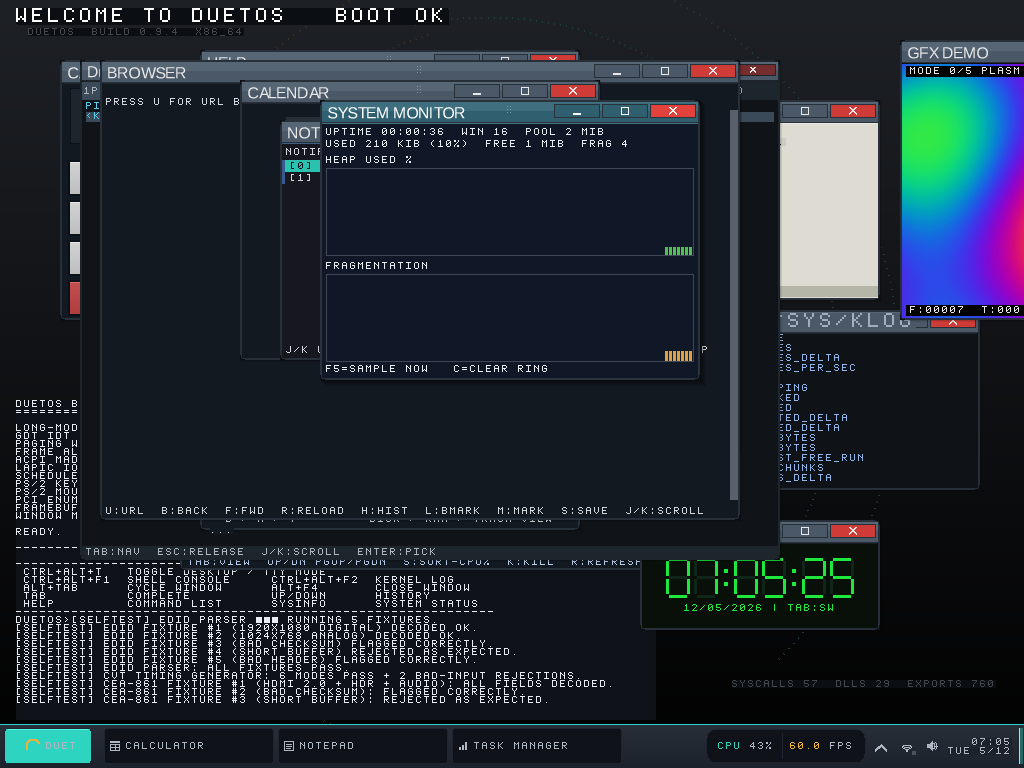
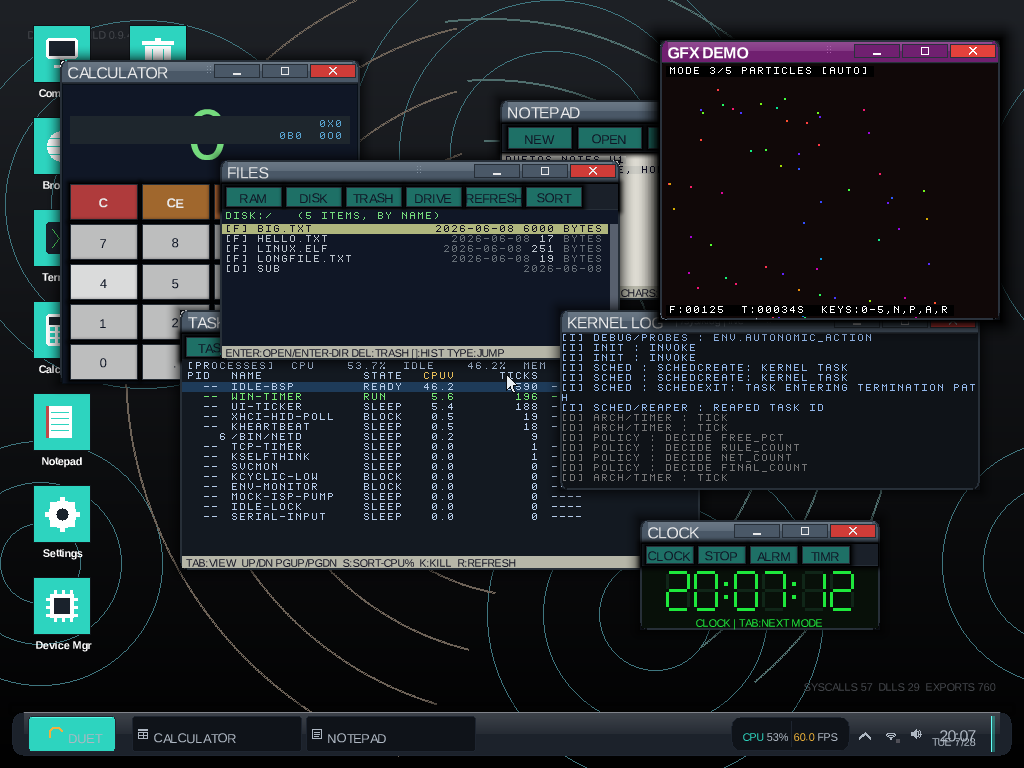
screenshots: regenerate the Duet desktop pair on Aurora chrome
Replaces docs/screenshots/06-desktop-duet.png (the README hero) and
09-duet-pixel-render.png with fresh captures showing the island taskbar,
rounded window bodies and the Aero specular from the three previous
commits. Both verified by eye and by pixel probe: the island measures
x=12..1011 (width 1000, clamped to framebuffer minus one 12 px inset per
side) with a 12 px gap below it -- exactly the taskbar_inset the Duet
theme table carries.

Getting a capture at all needed three fixes.

1. demo-windows=1 boot flag. Every app window registers HIDDEN -- it is
   a launcher, not a running task -- so a plain desktop boot photographs
   an empty desktop and no window chrome whatsoever. That is a
   pre-existing behaviour change the committed screenshots predate; the
   harness has quietly been unable to reproduce them since. The flag
   raises a representative set through WindowRaise, which is already the
   single "make it visible and active" entry point the Start menu's
   role-raise handler uses. GFX Demo is raised LAST on purpose: it only
   renders pixels while it is the active window and paints a static
   "idle card" otherwise, which is what makes 09-duet-pixel-render
   capturable headlessly at all.

2. Island content padding. The rounded corners eat the first and last
   `radius` columns, so anchoring the START button and the time card at
   the bare 4 px edge pad sliced both against the curve and hid the
[…]

diff --git a/kernel/drivers/video/taskbar.cpp b/kernel/drivers/video/taskbar.cpp
@@ -133,6 +133,13 @@ constexpr u32 kEdgePad = 4;
 constexpr u32 kTabW = 170;
 constexpr u32 kTabGap = 4;
 
+// Show-desktop rail: the rightmost cell of the strip. Hoisted out of
+// the paint block because the time card has to anchor LEFT of it —
+// both used to measure back from the same right edge, so the rail
+// painted over the last few pixels of the date row.
+constexpr u32 kRailW = 4;
+constexpr u32 kRailGap = 4;
+
 // Horizontal room the right-hand cluster needs: time card + tray
 // icons + chevron + (Duet only) the CPU/FPS pill + the show-desktop
 // rail + the gaps between them. Sized so tabs never get clipped by
@@ -426,8 +433,12 @@ void TaskbarReanchor()
     // the framebuffer minus an inset on each side, so a desktop with
     // many windows degrades to a near-full-width island rather than
     // running off the screen.
+    // The rounded corners eat into the first and last `radius`
+    // columns, so the content pad has to clear them or the START
+    // button and the time card get sliced by the curve.
+    const u32 pad = kEdgePad + theme.surface_radius;
     const u32 tabs_w = VisibleTabCount() * (kTabW + kTabGap);
-    const u32 content = kEdgePad + kStartW + kStartGap + tabs_w + RightReserve() + kEdgePad;
+    const u32 content = 2 * pad + kStartW + kStartGap + tabs_w + RightReserve();
     const u32 max_w = (info.width > 2 * inset) ? info.width - 2 * inset : info.width;
     const u32 w = (content < max_w) ? content : max_w;
 
@@ -507,6 +518,12 @@ void TaskbarRedraw()
     const u32 bar_w = (g_bar_w != 0) ? g_bar_w : info.width;
     const u32 bar_right = bar_x + bar_w;
     const u32 bar_radius = g_bar_radius;
+    // Left / right content pad. On a full-width strip the chrome sits
+    // 4 px off the framebuffer edge; on an island it must additionally
+    // clear the corner curve. `bar_content_right` is the right-hand
+    // anchor every right-aligned cell measures back from.
+    const u32 bar_pad = kEdgePad + bar_radius;
+    const u32 bar_content_right = (bar_w > 2 * bar_pad) ? bar_right - bar_pad : bar_right;
 
     // Tactility lift: a faint 6-px shadow bleeds upward from the
     // strip's top edge so the taskbar reads as a piece of chrome
@@ -591,7 +608,7 @@ void TaskbarRedraw()
     // window-chrome highlight band.
     constexpr u32 start_w = kStartW;
     constexpr u32 start_radius = 4;
-    const u32 start_x = bar_x + kEdgePad;
+    const u32 start_x = bar_x + bar_pad;
     const u32 start_h = (g_h > 8) ? g_h - 8 : g_h;
     FramebufferFillRoundRect(start_x, g_y + 4, start_w, start_h, start_radius, g_accent);
     FramebufferDrawRoundRect(start_x, g_y + 4, start_w, start_h, start_radius, g_border);
@@ -676,7 +693,8 @@ void TaskbarRedraw()
     //                 gaps (~14) = ~170
     const u32 right_reserve = RightReserve();
     u32 tab_x = start_x + start_w + kStartGap;
-    const u32 tabs_right_limit = (bar_w > right_reserve) ? bar_right - right_reserve : bar_right;
+    const u32 tabs_right_limit =
+        (bar_content_right > bar_x + right_reserve) ? bar_content_right - right_reserve : bar_content_right;
 
     g_tab_count = 0;
     const u32 count = WindowRegistryCount();
@@ -904,7 +922,12 @@ void TaskbarRedraw()
     // inset, anchored to the framebuffer's right edge.
     const u32 block_text_w = (clk_text_w > date_text_w) ? clk_text_w : date_text_w;
     const u32 block_w = block_text_w + 12;
-    const u32 block_x = (bar_w > block_w) ? bar_right - block_w : bar_x;
+    // Anchor left of the show-desktop rail, not of the strip edge:
+    // the rail is painted last and would otherwise overwrite the
+    // right-hand few pixels of the date row.
+    const u32 cluster_right =
+        (bar_content_right > bar_x + kRailW + kRailGap) ? bar_content_right - kRailW - kRailGap : bar_content_right;
+    const u32 block_x = (cluster_right > bar_x + block_w) ? cluster_right - block_w : bar_x;
     // Two-row stack inside the taskbar height — top row above the
     // strip's vertical centre, bottom row below.
     const u32 row_top_y = g_y + (g_h / 2) - 8;
@@ -1296,8 +1319,8 @@ void TaskbarRedraw()
     // the desktop is showing — gives the user a visible
     // "armed" cue that a click would restore the windows.
     {
-        constexpr u32 rail_w = 4;
-        const u32 rail_x = (bar_w > rail_w + 1) ? bar_right - rail_w - 1 : bar_x;
+        constexpr u32 rail_w = kRailW;
+        const u32 rail_x = (bar_content_right > bar_x + rail_w + 1) ? bar_content_right - rail_w - 1 : bar_x;
         const u32 rail_y = g_y + 4;
         const u32 rail_h = (g_h > 8) ? g_h - 8 : g_h;
         const u8 rail_alpha = WindowShowDesktopActive() ? 0xC0 : 0x60;
@@ -1445,7 +1468,7 @@ void TaskbarStartBounds(u32* x_out, u32* y_out, u32* w_out, u32* h_out)
     // an update there must update these constants too. Small
     // static layout, so a centralised constant would be over-
     // engineering at v0 scale.
-    const u32 start_x = g_bar_x + kEdgePad;
+    const u32 start_x = g_bar_x + kEdgePad + g_bar_radius;
     constexpr u32 start_w = kStartW;
     const u32 start_y = g_y + 4;
     const u32 start_h = (g_h > 8) ? g_h - 8 : g_h;

diff --git a/kernel/core/boot_bringup.cpp b/kernel/core/boot_bringup.cpp
@@ -3943,6 +3943,17 @@ void BootBringupDesktop(duetos::uptr multiboot_info)
     // effect on normal boots.
     const bool demo_browser = CmdlineMatches(cmdline, "demo-browser", "1");
 
+    // demo-windows=1 unhides a representative set of app windows at
+    // boot so a headless screenshot can capture live window chrome.
+    // Every app window otherwise registers hidden — it is a launcher,
+    // not a running task — which leaves the screenshot harness unable
+    // to photograph chrome at all without injecting Start-menu clicks.
+    // Windows are looked up by ThemeRole rather than by captured
+    // handle so this stays a single block that cannot drift out of
+    // sync with the registration order above. No effect on normal
+    // boots.
+    const bool demo_windows = CmdlineMatches(cmdline, "demo-windows", "1");
+
     if (want_tty)
     {
         duetos::drivers::video::SetDisplayMode(duetos::drivers::video::DisplayMode::Tty);
@@ -3954,6 +3965,27 @@ void BootBringupDesktop(duetos::uptr multiboot_info)
     {
         duetos::drivers::video::DesktopCompose(theme0.desktop_bg, nullptr);
         duetos::drivers::video::CursorInit(theme0.desktop_bg);
+        if (demo_windows)
+        {
+            // WindowRaise is the single "make it visible and active"
+            // entry point (the Start menu's role-raise handler uses
+            // it too), so raising in order leaves the LAST role
+            // focused. GfxDemo is last deliberately: it only renders
+            // while it is the active window — otherwise it paints a
+            // static "idle card" — so this is what makes the pixel
+            // render capturable headlessly.
+            static constexpr Role kDemoRoles[] = {Role::Calculator, Role::Notes, Role::TaskManager, Role::Files,
+                                                  Role::LogView,    Role::Clock, Role::GfxDemo};
+            for (const Role role : kDemoRoles)
+            {
+                const duetos::drivers::video::WindowHandle h = duetos::drivers::video::ThemeRoleWindow(role);
+                if (h != duetos::drivers::video::kWindowInvalid)
+                {
+                    duetos::drivers::video::WindowRaise(h);
+                }
+            }
+            duetos::drivers::video::DesktopCompose(theme0.desktop_bg, nullptr);
+        }
         if (demo_calendar)
         {
             duetos::u32 kx = 0, ky = 0, kw = 0, kh = 0;

diff --git a/README.md b/README.md
@@ -4,14 +4,14 @@
 
 **A from-scratch operating system that boots on real PC hardware and runs Windows `.exe` files natively** — not under a VM, not through Wine, not as an emulator on top of Linux. The PE loader, the NT syscall layer, and 44 reimplemented Win32 DLLs (`kernel32`, `ntdll`, `user32`, `gdi32`, `ucrtbase`, `msvcp140`, `d3d11`, …) live in this repo as a peer ABI alongside the native one.
 
-![DuetOS desktop, Duet theme — Calculator, Notepad, Files, Task Manager, Kernel Log, Clock, GFX Demo, System Monitor, themed taskbar](docs/screenshots/06-desktop-duet.png)
+![DuetOS desktop, Duet theme — Calculator, Notepad, Files, Task Manager, Kernel Log, Clock, GFX Demo, island taskbar](docs/screenshots/06-desktop-duet.png)
 
 Everything in that screenshot is painted in a single compose pass by our kernel-side compositor:
 
 - **Calculator, Notepad, Files, Task Manager, Kernel Log, Clock** — native DuetOS apps.
 - **GFX Demo** (top right) — a native app computing every pixel in its client area on every frame; the same `FramebufferPutPixel` / `FramebufferFillRect` primitive set our `d3d11` / `d3d12` / `dxgi` DLLs call into when a Windows PE goes `D3D11CreateDeviceAndSwapChain → ClearRenderTargetView → Present`.
-- **System Monitor** — live heap usage, fragmentation, syscalls/sec, FPS, window count — taken straight from kernel counters.
-- **Taskbar** — Start menu, pinned apps, tray, clock, Duet theme. `Ctrl+Alt+Y` hot-swaps to Classic / Slate10 / Amber. `theme=<name>` on the kernel cmdline picks one at boot.
+- **Window chrome** — the "Aurora" glass look: rounded bodies, an Aero-lineage specular ramp on each title bar that terminates hard at the midpoint, and a sheen hairline on the top edge. Design bundle: [`docs/aurora-theme/`](docs/aurora-theme/).
+- **Taskbar** — a centred, inset, rounded island carrying the Start button, pinned apps, tray, and clock, with the desktop showing on every side. `Ctrl+Alt+Y` hot-swaps to Classic / Slate10 / Amber, which keep their flat, full-width, square chrome. `theme=<name>` on the kernel cmdline picks one at boot.
 
 ---
 

diff --git a/wiki/tooling/QEMU-Smoke.md b/wiki/tooling/QEMU-Smoke.md
@@ -208,6 +208,34 @@ under `tests/`. These do not require QEMU.
 DuetOS, wait `DUETOS_SETTLE` seconds, snapshot the framebuffer to
 PNG. Used to capture `docs/screenshots/`.
 
+`screenshot-theme.sh` takes an **absolute** GRUB menu-entry index into
+`boot/grub/grub.cfg` (counting `menuentry` blocks from 0) and pins it
+as the default in a one-shot sidecar ISO, so no keystroke navigation is
+needed.
+
+**Every app window registers hidden** — it is a launcher, not a running
+task — so a plain desktop boot photographs an empty desktop with no
+window chrome at all. `demo-windows=1` raises a representative set
+(Calculator, Notepad, Task Manager, Files, Kernel Log, Clock, GFX Demo)
+at boot. GFX Demo is raised last on purpose: it only renders pixels
+while it is the active window, and paints a static "idle card"
+otherwise.
+
+The two Duet-family screenshots are captured from the
+`duetos-demo-windows-duet` entry, which carries that flag:
+
+```bash
+# 06-desktop-duet.png — the README hero
+DUETOS_SETTLE=22 tools/qemu/screenshot-theme.sh 19 docs/screenshots/06-desktop-duet.png
+
+# 09-duet-pixel-render.png — same desktop, later in the GFX demo's
+# auto mode cycle, so it lands on a different pixel renderer
+DUETOS_SETTLE=45 tools/qemu/screenshot-theme.sh 19 docs/screenshots/09-duet-pixel-render.png
+```
+
+Re-derive the index with `grep -n '^menuentry' boot/grub/grub.cfg` if
+entries are ever inserted rather than appended.
+
 ## PE-Compat Smoke Battery
 
 The surface-coverage PE zoo (~135 Win32 smoke executables under

diff --git a/wiki/getting-started/Getting-Started.md b/wiki/getting-started/Getting-Started.md
@@ -83,9 +83,10 @@ during the QEMU smoke boot.
 
 ## Reproduce the Screenshots
 
-See [README.md > Screenshots](../../README.md#screenshots) for the exact
-`screenshot-theme.sh` invocations used to capture each screenshot in
-`docs/screenshots/`.
+See [QEMU Smoke > Screenshot Capture](../tooling/QEMU-Smoke.md#screenshot-capture)
+for the exact `screenshot-theme.sh` invocations used to capture each
+screenshot in `docs/screenshots/`, including the `demo-windows=1` boot
+flag that makes app windows visible to a headless capture.
 
 ## Next Steps
 
